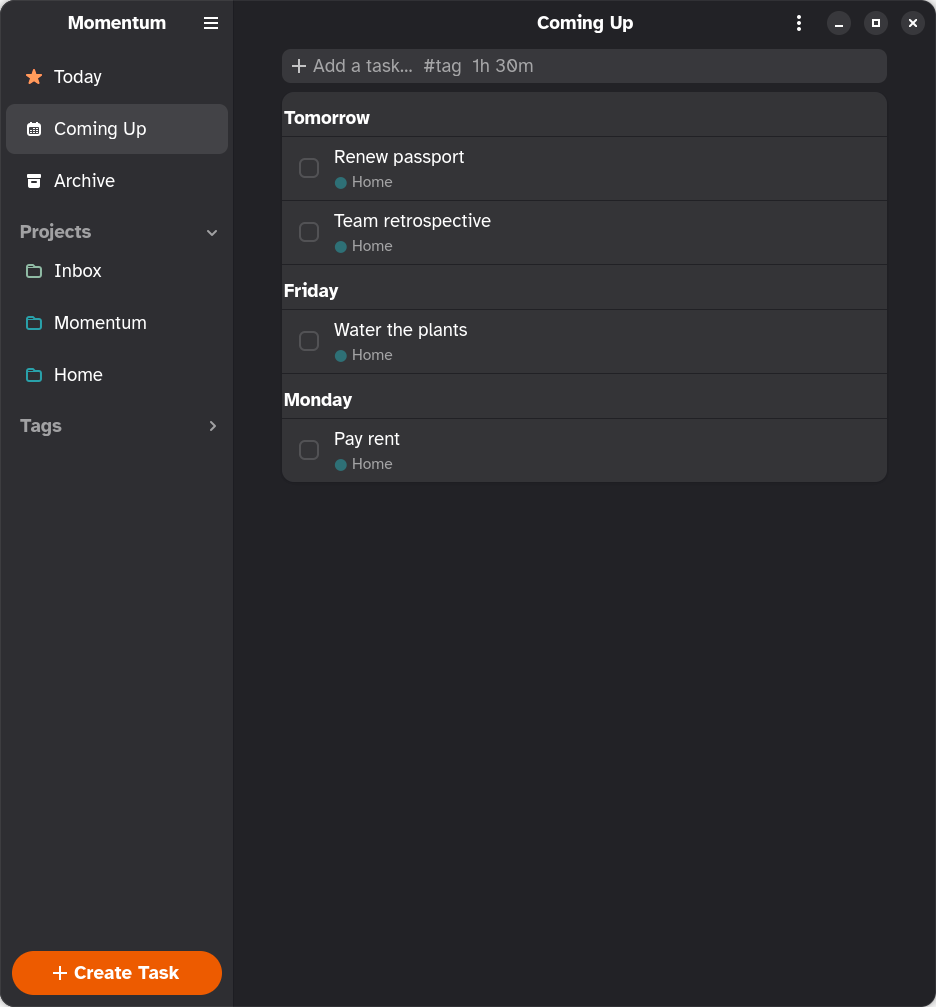
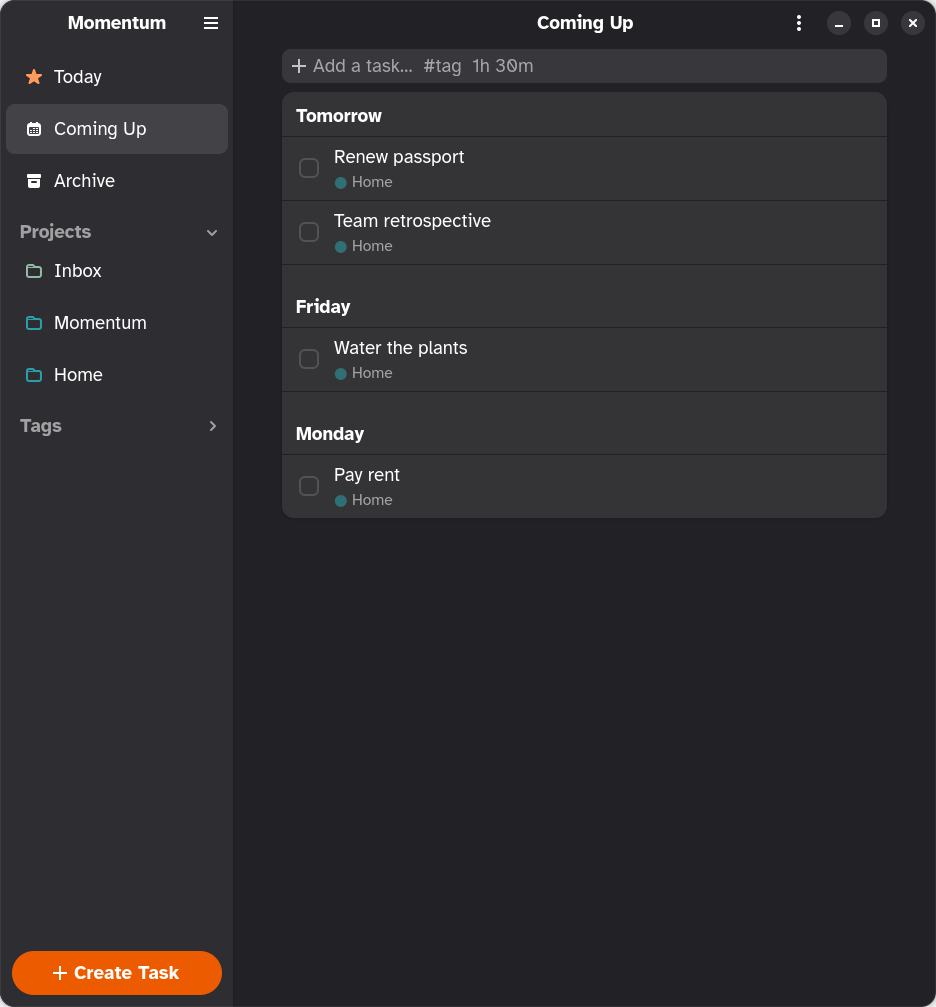
Edit/Delete enabled on view change; Coming Up header padding and spacing; hide last-synced on empty views

Changed region(s): [[0.3098, 0.2771, 0.4957, 0.5233], [0.3098, 0.0924, 0.4028, 0.1231]]

diff --git a/crates/app/src/window.rs b/crates/app/src/window.rs
@@ -589,7 +589,7 @@ impl MomentumWindow {
         let imp = self.imp();
         let on = self.sync_configured();
         imp.sync_button.set_visible(on);
-        imp.sync_label.set_visible(on);
+        imp.sync_label.set_visible(on && !imp.rows.borrow().is_empty());
         let last = imp.settings.int64("last-sync-ms") as u64;
         imp.sync_label.set_text(&if last == 0 {
             gettext("Not synced yet")
@@ -852,7 +852,7 @@ impl MomentumWindow {
         }
     }
 
-    pub fn refresh(&self) {
+    fn update_context_actions(&self) {
         let view = self.imp().view.borrow().clone();
         let (editable, deletable) = match &view {
             View::Project(id) => (true, id != INBOX_PROJECT_ID),
@@ -864,6 +864,9 @@ impl MomentumWindow {
                 a.set_enabled(on);
             }
         }
+    }
+
+    pub fn refresh(&self) {
         let (done, _) = self.done_tasks();
         // Menu item stays visible but disabled when there is nothing to archive (HIG).
         if let Some(a) = self.lookup_action("archive-done").and_downcast::<gio::SimpleAction>() {
@@ -1179,6 +1182,7 @@ impl MomentumWindow {
 
     fn refresh_tasks(&self) {
         let imp = self.imp();
+        self.update_context_actions();
         imp.task_list.remove_all();
         imp.rows.borrow_mut().clear();
         let store = imp.store.borrow();
@@ -1223,12 +1227,15 @@ impl MomentumWindow {
             for t in tasks {
                 let day = t.due_day.clone().unwrap_or_default();
                 if day != current_day {
+                    let first = current_day.is_empty();
                     current_day = day.clone();
                     let label = gtk::Label::builder()
                         .label(fmt_day(&day))
                         .xalign(0.0)
-                        .margin_top(12)
-                        .margin_bottom(4)
+                        .margin_start(12)
+                        .margin_end(12)
+                        .margin_top(if first { 10 } else { 28 })
+                        .margin_bottom(6)
                         .css_classes(["heading"])
                         .build();
                     imp.task_list.append(
@@ -1299,6 +1306,7 @@ impl MomentumWindow {
         }
         imp.empty.set_visible(imp.rows.borrow().is_empty());
         imp.task_list.set_visible(!imp.rows.borrow().is_empty());
+        self.update_sync_button();
     }
 
     // ---- actions ---------------------------------------------------------
